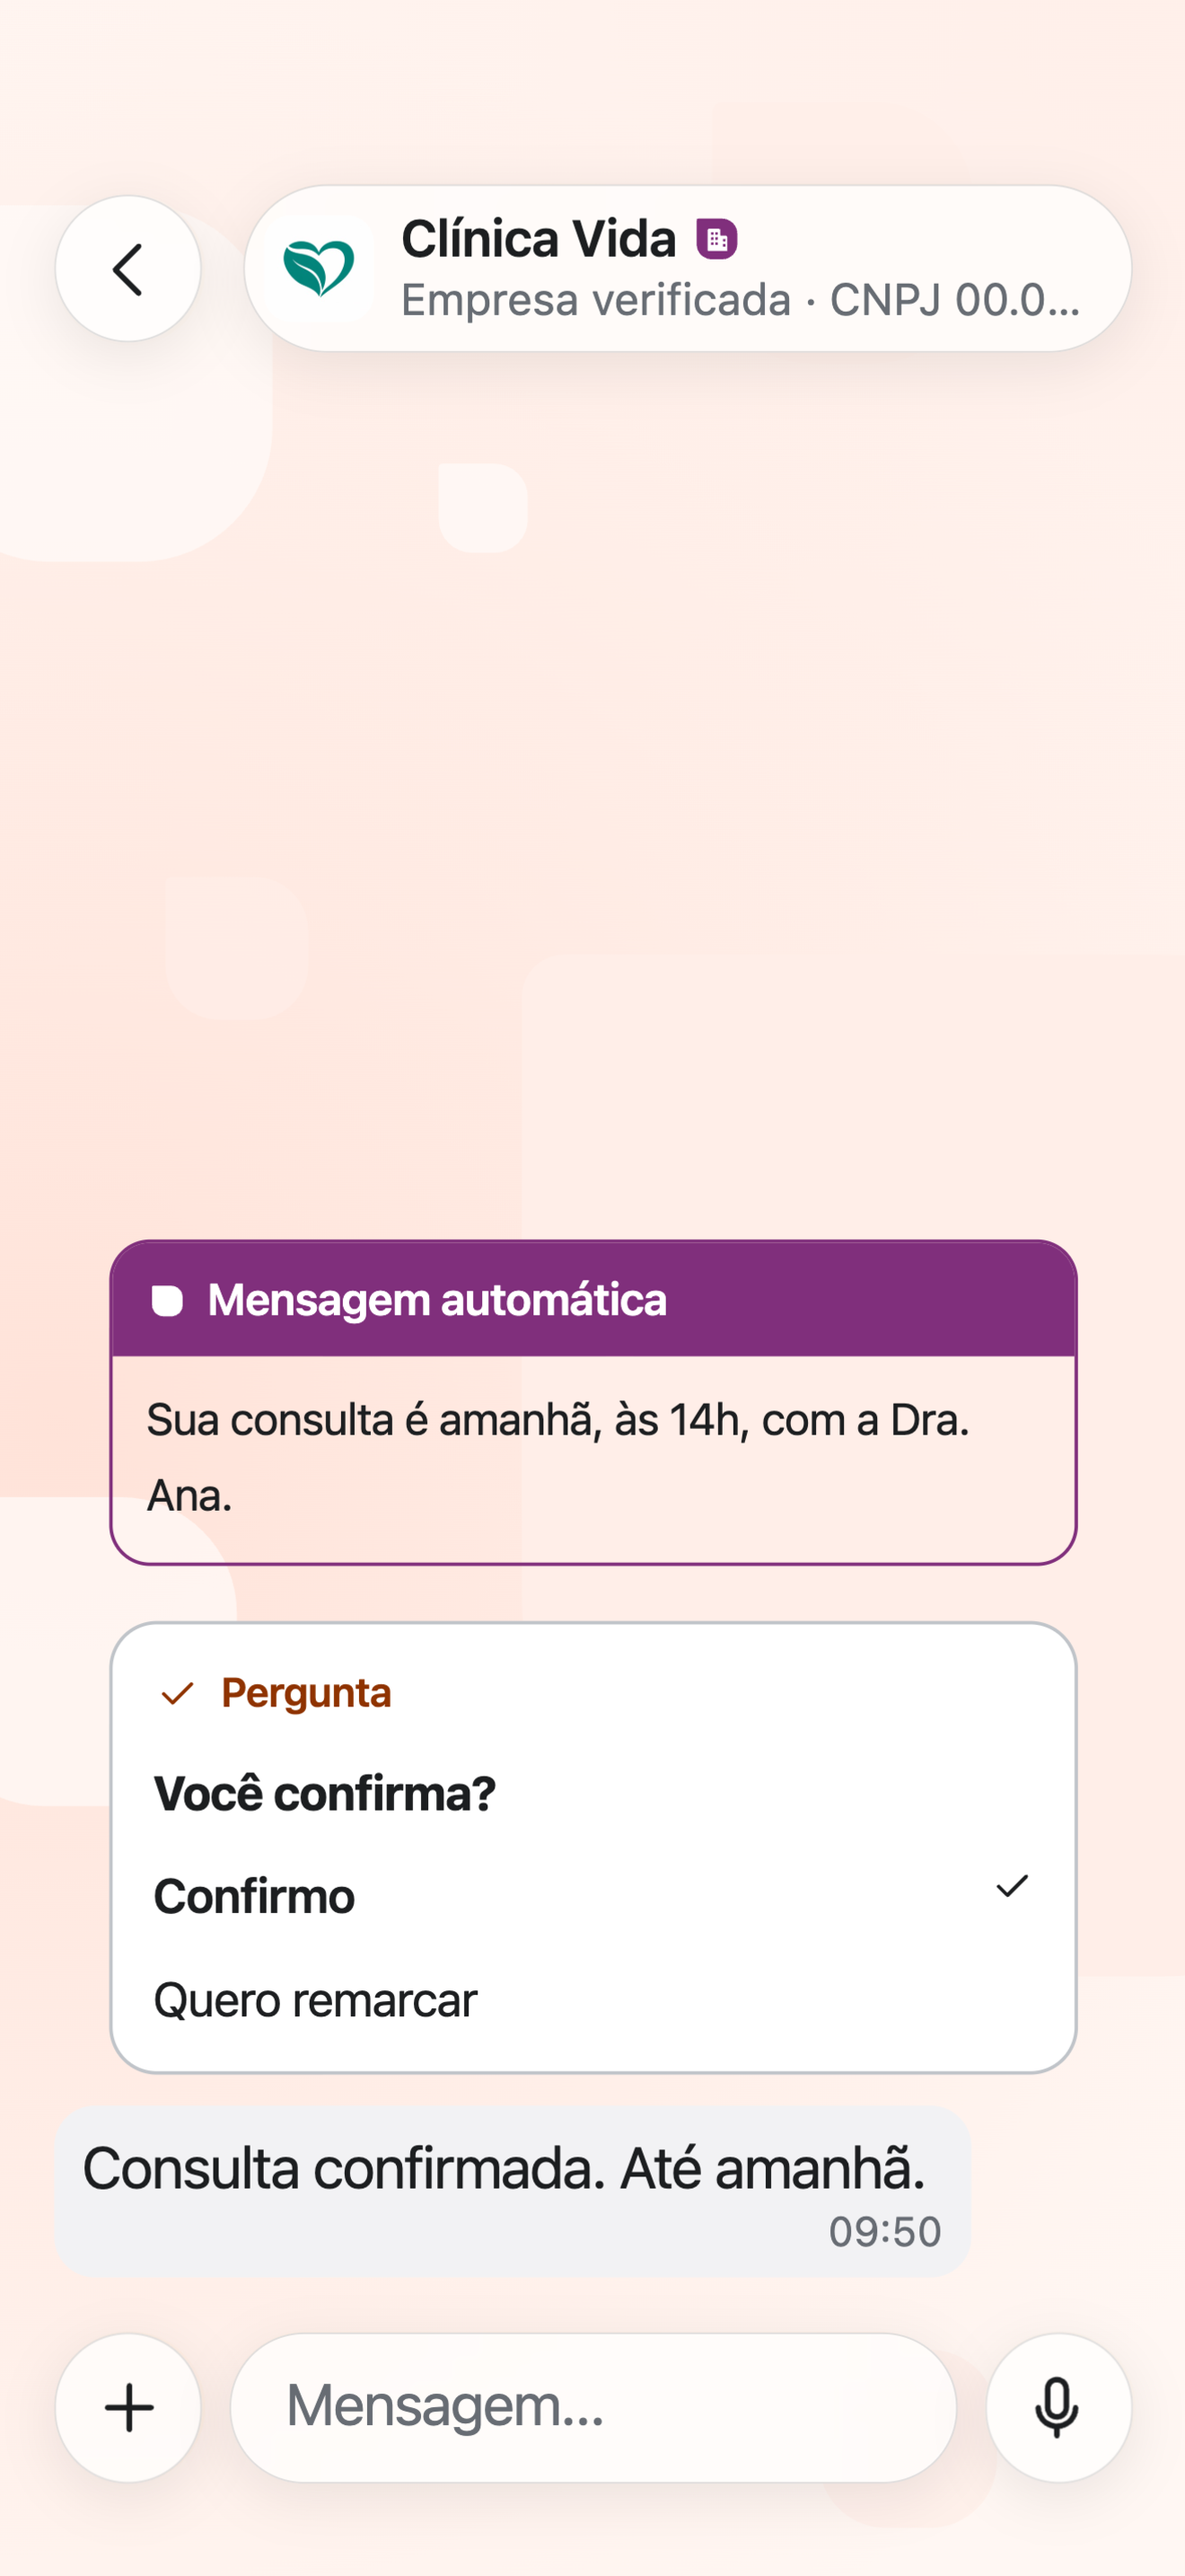
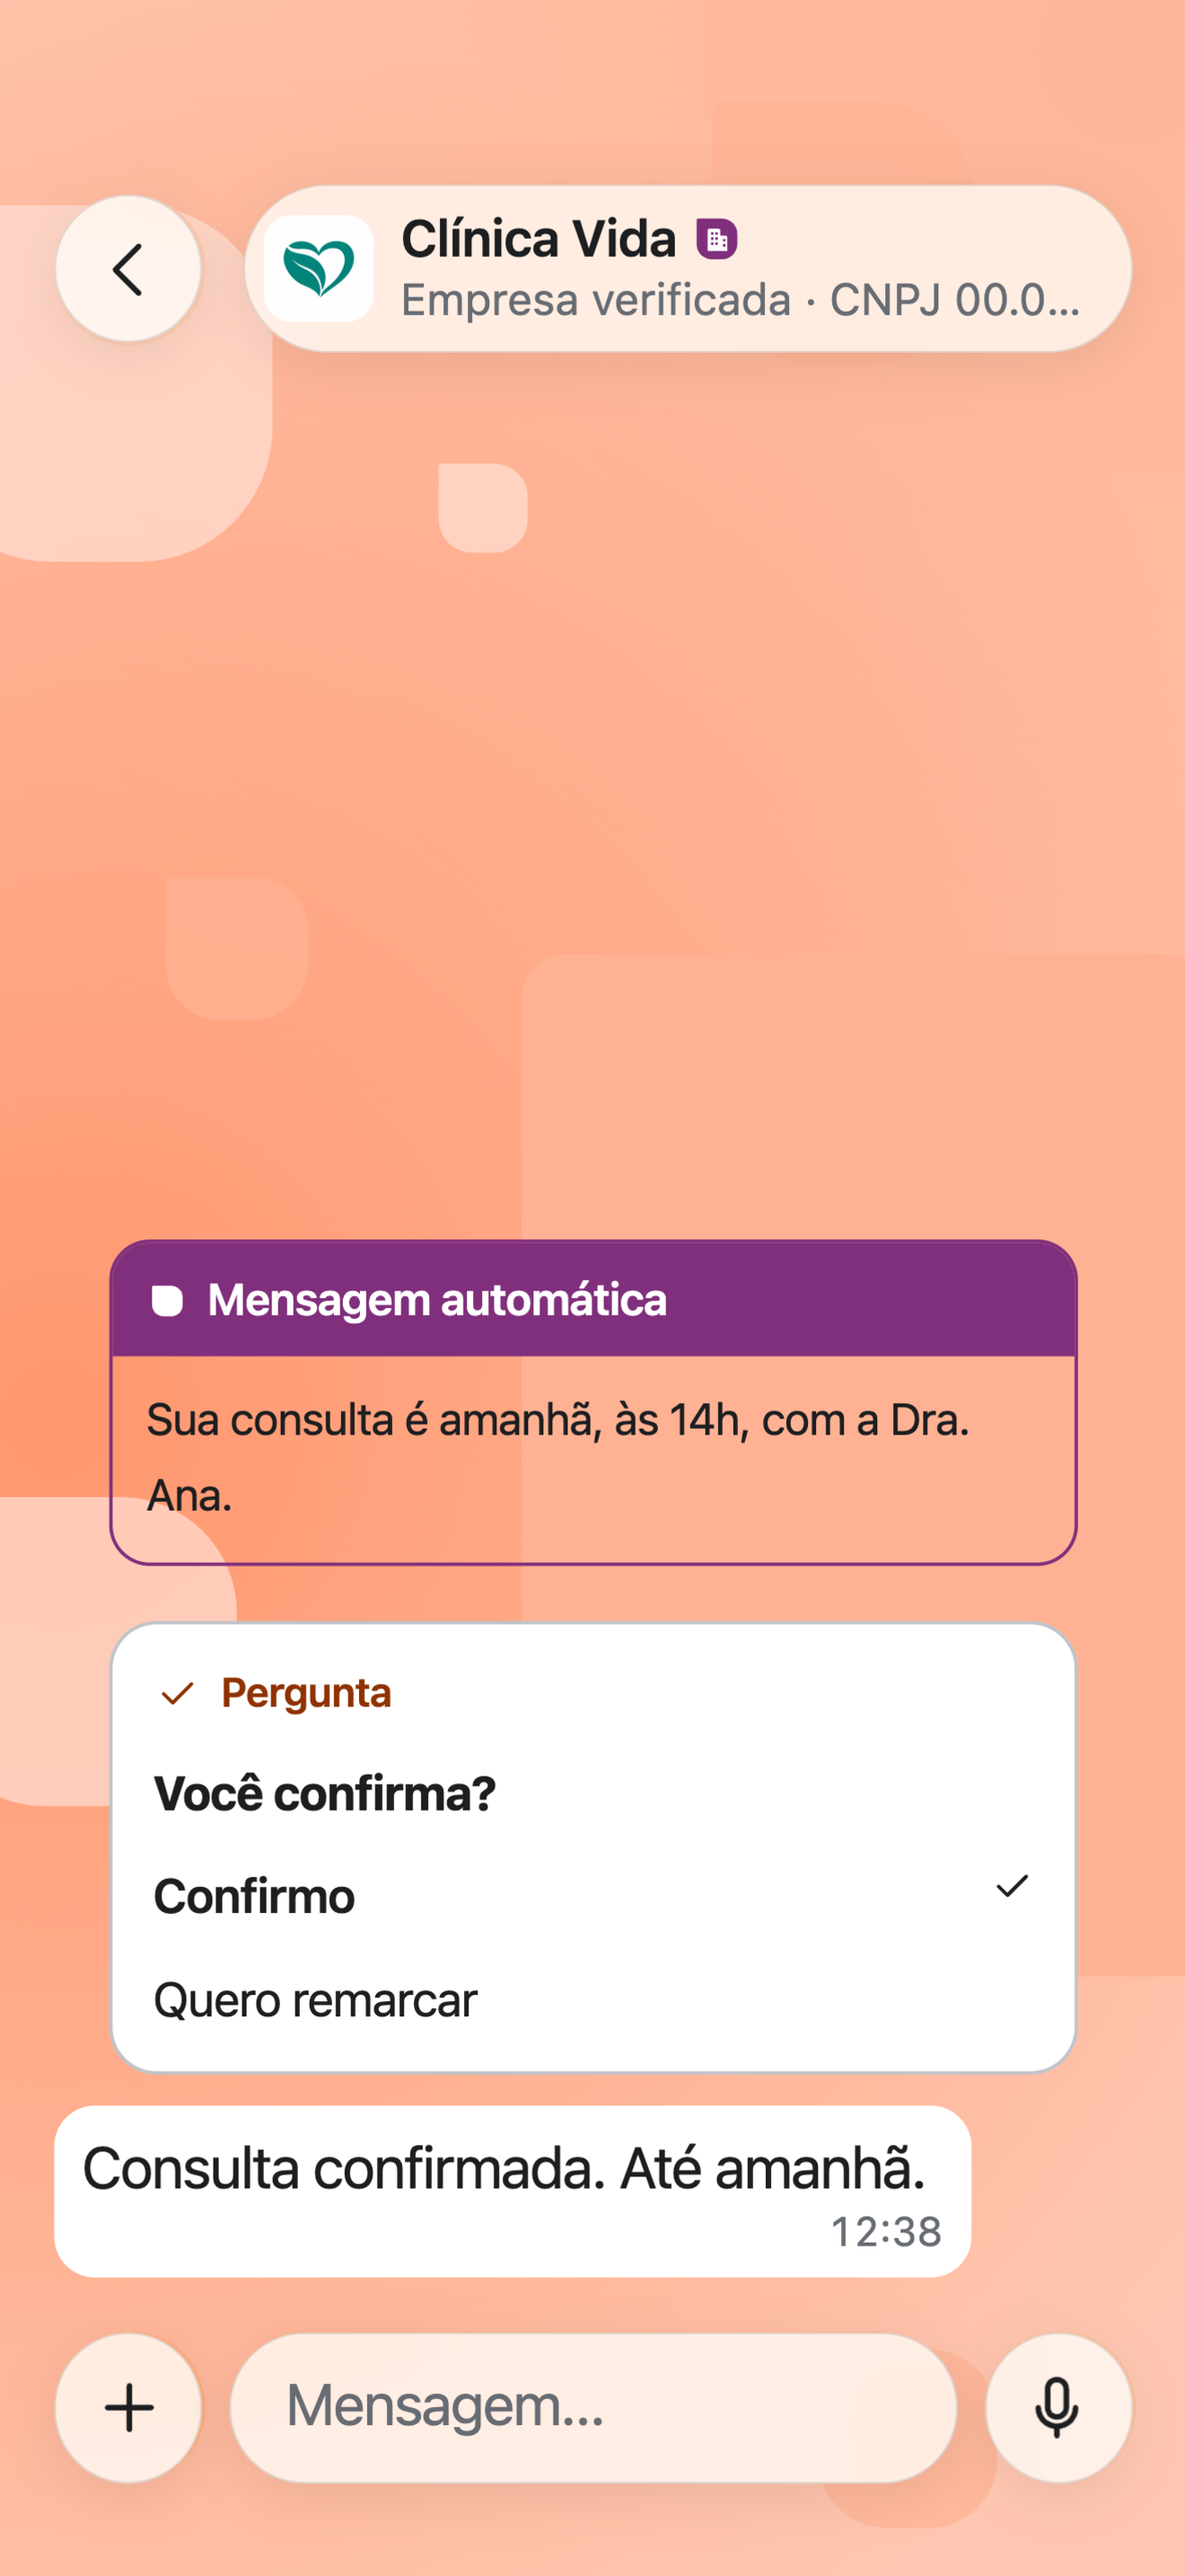
Phone scenes: incoming bubble from bubble.other; store captures for the deeper chat background
The site drew the incoming bubble in gray 300 by hand. It now reads the
bubble.other token, as the apps do, so the scenes follow the chat colour
change in bipe-shared chat-bubble-contrast. Store captures re-rendered.

diff --git a/src/site.css b/src/site.css
@@ -207,8 +207,7 @@ a.card.tentpole-card { display: flex; align-items: flex-start; flex-direction: c
 .chat-bg { position: absolute; inset: 0; width: 100%; height: 100%; z-index: -1; }
 /* The phone is a picture: no selection, no image drag, no long-press menu. */
 .phone * { pointer-events: none; -webkit-user-drag: none; }
-.screen { --bubble-in: var(--bipe-gray-300); --bubble-out: var(--bipe-bubble-own); isolation: isolate; flex: 1; min-width: 0; min-height: 0; background: var(--bg); color: var(--text); font-family: var(--app); font-size: 17px; line-height: 22px; letter-spacing: -.41px; overflow: hidden; display: flex; flex-direction: column; position: relative; -webkit-mask: var(--phone-screen) 0 0 / 100% 100% no-repeat; mask: var(--phone-screen) 0 0 / 100% 100% no-repeat; }
-@media (prefers-color-scheme: dark) { .screen { --bubble-in: var(--bipe-gray-400); } }
+.screen { --bubble-in: var(--bipe-bubble-other); --bubble-out: var(--bipe-bubble-own); isolation: isolate; flex: 1; min-width: 0; min-height: 0; background: var(--bg); color: var(--text); font-family: var(--app); font-size: 17px; line-height: 22px; letter-spacing: -.41px; overflow: hidden; display: flex; flex-direction: column; position: relative; -webkit-mask: var(--phone-screen) 0 0 / 100% 100% no-repeat; mask: var(--phone-screen) 0 0 / 100% 100% no-repeat; }
 /* iPhone 16 Pro: 62pt top safe area, 125x37pt Dynamic Island 11pt from the top. */
 .statusbar { height: 62px; flex: none; display: grid; grid-template-columns: 1fr 125px 1fr; grid-template-rows: 37px; align-items: center; padding-top: 11px; font-size: 17px; font-weight: 600; font-variant-numeric: tabular-nums; }
 .statusbar .clock, .statusbar .sysicons { justify-self: center; }
